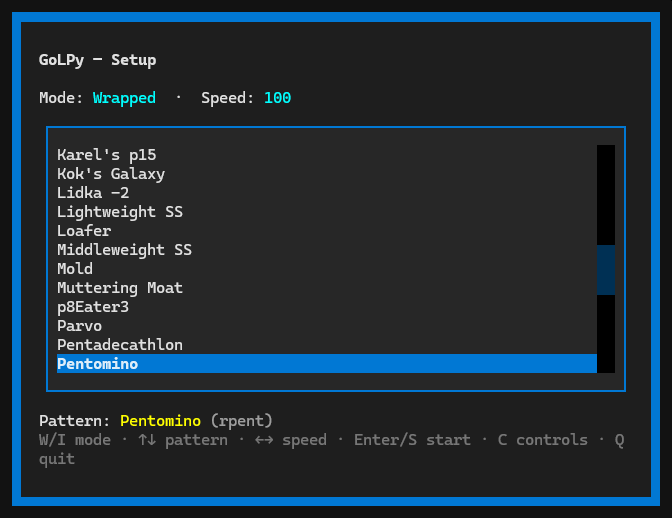
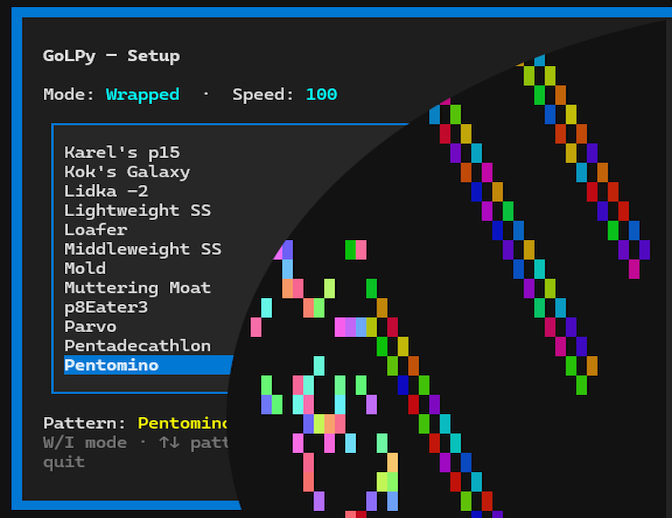
Bump GoLPy to v1.1 and add project entry on main index.

Changed region(s): [[0.0, 0.0, 1.0, 1.0], [0.9062, 0.834, 0.9375, 0.8649]]

diff --git a/index.html b/index.html
@@ -364,6 +364,13 @@
                 },
                 {
                     "@type": "SoftwareApplication",
+                    "name": "GoLPy",
+                    "description": "Python desktop and terminal port of Conway's Game of Life with pygame GUI, Textual TUI (gol-tui.exe), wrapped/infinite modes, 57 patterns, pan and zoom, and colorful cell aging.",
+                    "url": "https://kreft.us/golpy/",
+                    "applicationCategory": "Simulation"
+                },
+                {
+                    "@type": "SoftwareApplication",
                     "name": "Mastermind",
                     "description": "Terminal code-breaking game in Go. Guess the 4-peg secret in 12 turns with colored pegs and green/yellow feedback. Key-by-key input, -set for two-player, playtime on win or loss.",
                     "url": "https://kreft.us/mind/",
@@ -622,6 +629,21 @@
                             <div>
                                 <h2>Larry v1.1</h2>
                                 <p><b>Larry</b> is a terminal Frogger-like game written in Go with tcell. Guide a green '@' across traffic with WASD/Arrows, Space to pause, Esc to quit. Levels change color themes, add vehicles, and increase speed; safe shoulders and gaps help you through. Includes a persistent Top-10 scoreboard with name entry. Downloads and README on the project page.</p>
+                            </div>
+                        </a>
+                    </td>
+                </tr>
+                <tr class="project-row" onclick="window.location.href='./golpy/';">
+                    <td class="project-image-cell">
+                        <a href="./golpy/" tabindex="-1">
+                            <img src="./images/golpy-tui.png" alt="GoLPy terminal UI Game of Life screenshot with setup screen and cell grid" loading="lazy">
+                        </a>
+                    </td>
+                    <td class="project-text-cell">
+                        <a href="./golpy/" tabindex="-1">
+                            <div>
+                                <h2>GoLPy v1.1</h2>
+                                <p><b>GoLPy</b> is a Python desktop port of the Kreft.us web Game of Life with pygame and a Textual terminal UI. Run Conway B3/S23 in wrapped or infinite mode with 57 built-in patterns, play/pause/step, pan and zoom, and colorful cell aging. <b>v1.1</b> adds full-terminal TUI (<code>-tui</code> / <code>gol-tui.exe</code>), controls help (<b>C</b>), infinite follow toggle (<b>F</b>), and dynamic wrapped grid sizing. Downloads and README on the project page.</p>
                             </div>
                         </a>
                     </td>

diff --git a/golpy/index.html b/golpy/index.html
@@ -3,17 +3,17 @@
 <head>
     <meta charset="UTF-8">
     <meta name="viewport" content="width=device-width, initial-scale=1.0">
-    <meta name="description" content="GoLPy v1.0 — pygame desktop port of Conway's Game of Life with wrapped/infinite modes, 57 patterns, pan and zoom, and colorful cell aging.">
-    <title>GoLPy v1.0 — gol</title>
+    <meta name="description" content="GoLPy v1.1 — pygame desktop and terminal port of Conway's Game of Life with wrapped/infinite modes, 57 patterns, gol-tui.exe, pan and zoom, and colorful cell aging.">
+    <title>GoLPy v1.1 — gol</title>
     <link rel="canonical" href="https://kreft.us/golpy/">
-    <meta property="og:title" content="GoLPy v1.0 — Conway's Game of Life">
-    <meta property="og:description" content="GoLPy v1.0 — pygame desktop port of Conway's Game of Life with wrapped/infinite modes, 57 patterns, pan and zoom, and colorful cell aging.">
+    <meta property="og:title" content="GoLPy v1.1 — Conway's Game of Life">
+    <meta property="og:description" content="GoLPy v1.1 — pygame desktop and terminal port of Conway's Game of Life with wrapped/infinite modes, 57 patterns, gol-tui.exe, pan and zoom, and colorful cell aging.">
     <meta property="og:type" content="website">
     <meta property="og:url" content="https://kreft.us/golpy/">
     <meta property="og:image" content="https://kreft.us/images/golpy.png">
     <meta name="twitter:card" content="summary_large_image">
-    <meta name="twitter:title" content="GoLPy v1.0 — Conway's Game of Life">
-    <meta name="twitter:description" content="GoLPy v1.0 — pygame desktop port of Conway's Game of Life with wrapped/infinite modes, 57 patterns, pan and zoom, and colorful cell aging.">
+    <meta name="twitter:title" content="GoLPy v1.1 — Conway's Game of Life">
+    <meta name="twitter:description" content="GoLPy v1.1 — pygame desktop and terminal port of Conway's Game of Life with wrapped/infinite modes, 57 patterns, gol-tui.exe, pan and zoom, and colorful cell aging.">
     <meta name="twitter:image" content="https://kreft.us/images/golpy.png">
     <style>
         body {
@@ -191,7 +191,7 @@
         <a href="https://github.com/Thujone82/kreftus" target="_blank" rel="noopener noreferrer" class="github-link" title="View on GitHub">
             <img src="../images/github-mark-white.png" alt="GitHub">
         </a>
-        <h1>GoLPy v1.0 — Game of Life</h1>
+        <h1>GoLPy v1.1 — Game of Life</h1>
     </header>
 
     <div class="container">
@@ -204,7 +204,7 @@
                     </td>
                     <td class="project-text-cell">
                         <div>
-                            <h2>GoLPy v1.0</h2>
+                            <h2>GoLPy v1.1</h2>
                             <p>
                                 <b>GoLPy</b> is a pygame desktop port of the Kreft.us <a href="../gol/">web Game of Life</a>.
                                 Run classic Conway B3/S23 cellular automata with colorful cell aging, 57 built-in patterns,

diff --git a/python/gol/README.html b/python/gol/README.html
@@ -3,7 +3,7 @@
 <head>
     <meta charset="UTF-8">
     <meta name="viewport" content="width=device-width, initial-scale=1.0">
-    <title>GoLPy v1.0 — gol Documentation</title>
+    <title>GoLPy v1.1 — gol Documentation</title>
     <link rel="stylesheet" href="https://cdnjs.cloudflare.com/ajax/libs/github-markdown-css/5.5.1/github-markdown-light.min.css" crossorigin="anonymous">
     <style>
         html { color-scheme: light; }

diff --git a/python/gol/gol/__init__.py b/python/gol/gol/__init__.py
@@ -1,3 +1,3 @@
 """GoLPy — Conway's Game of Life (Python port)."""
 
-__version__ = "1.0.0"
+__version__ = "1.1.0"

diff --git a/python/gol/README.md b/python/gol/README.md
@@ -1,6 +1,6 @@
 # GoLPy — Conway's Game of Life
 
-**Version 1.0**
+**Version 1.1**
 
 Desktop Python port of the [web Game of Life](https://kreft.us/gol/) with pygame.
 
@@ -107,6 +107,12 @@ From `python/gol/`:
 Icon sources: `build/icon-32.ico` (Windows `.exe` shell icon) and `build/32x32.png` (pygame window title-bar icon).
 
 ## Changelog
+
+### 1.1.0
+
+- Terminal UI (Textual): setup screen, full-terminal simulation, `gol-tui.exe` build
+- Controls help modal (**C**); infinite-mode follow toggle (**F**) and improved pan rules
+- Dynamic wrapped grid (square cells, 50 on shorter axis); click/grid alignment fixes
 
 ### 1.0.0
 

diff --git a/python/gol/cursor.md b/python/gol/cursor.md
@@ -4,7 +4,7 @@
 
 **Author:** Kreft&Cursor  
 **Date:** 2026-06-27  
-**Version:** 1.0.0
+**Version:** 1.1.0
 
 ---
 
@@ -145,7 +145,7 @@ python/gol/
     icon-32.ico           # committed source icon for gol.exe
     32x32.png             # window title-bar icon (pygame); synced to gol/assets/
 
-golpy/index.html          # project landing page at repo root (not on main index yet)
+golpy/index.html          # project landing page at repo root (listed on main index after Larry)
 ```
 
 ---